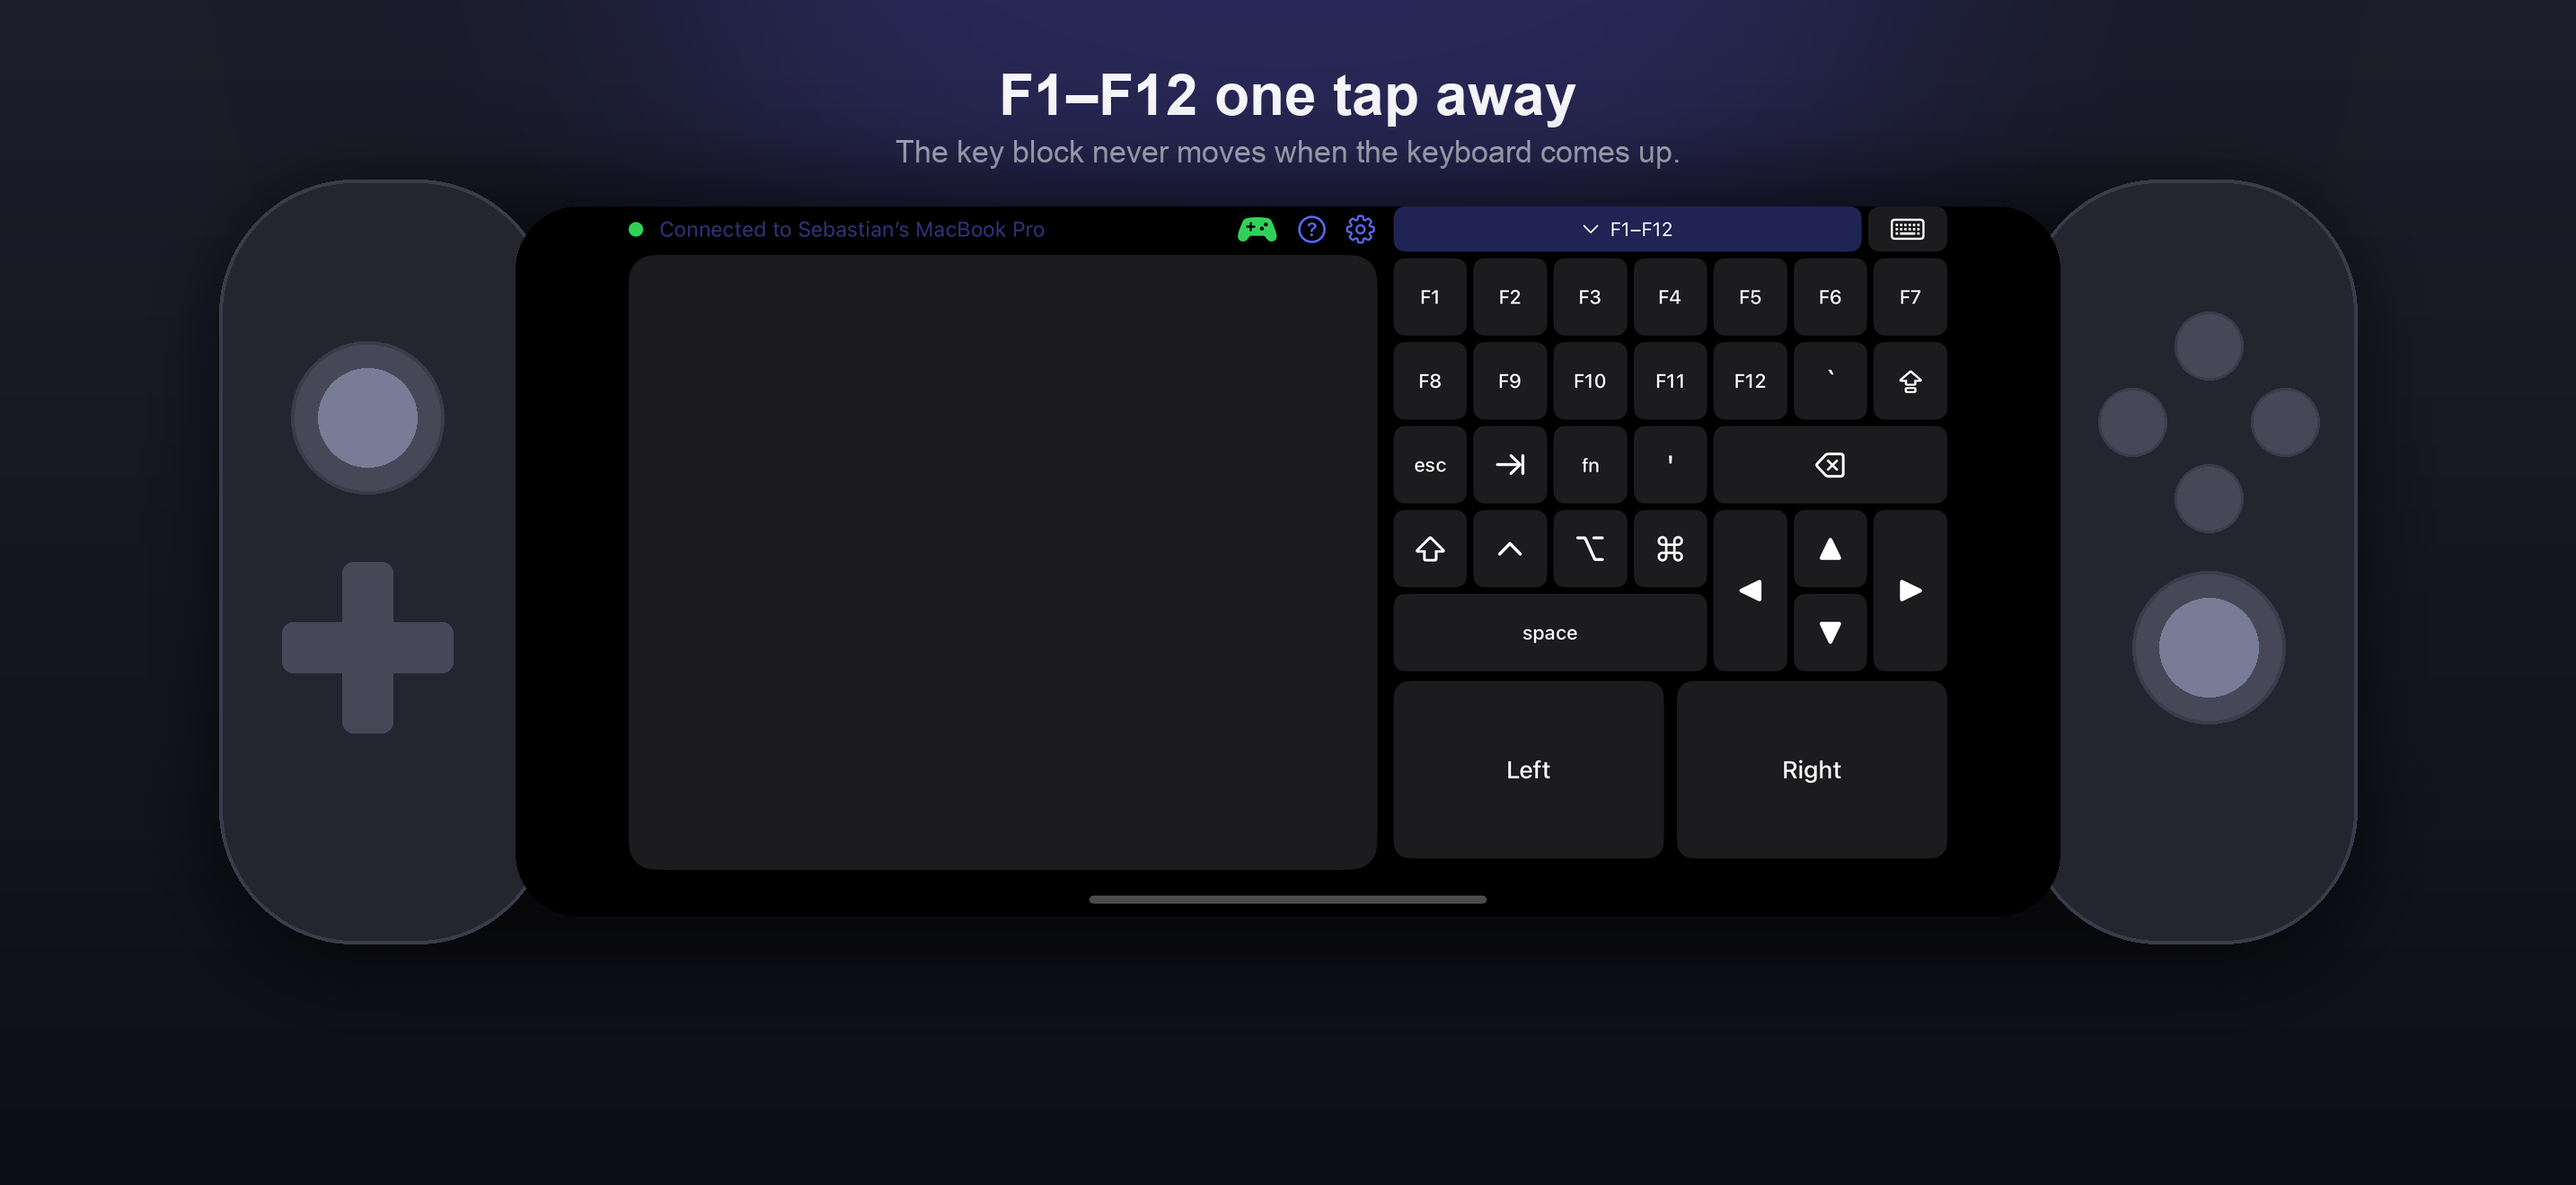
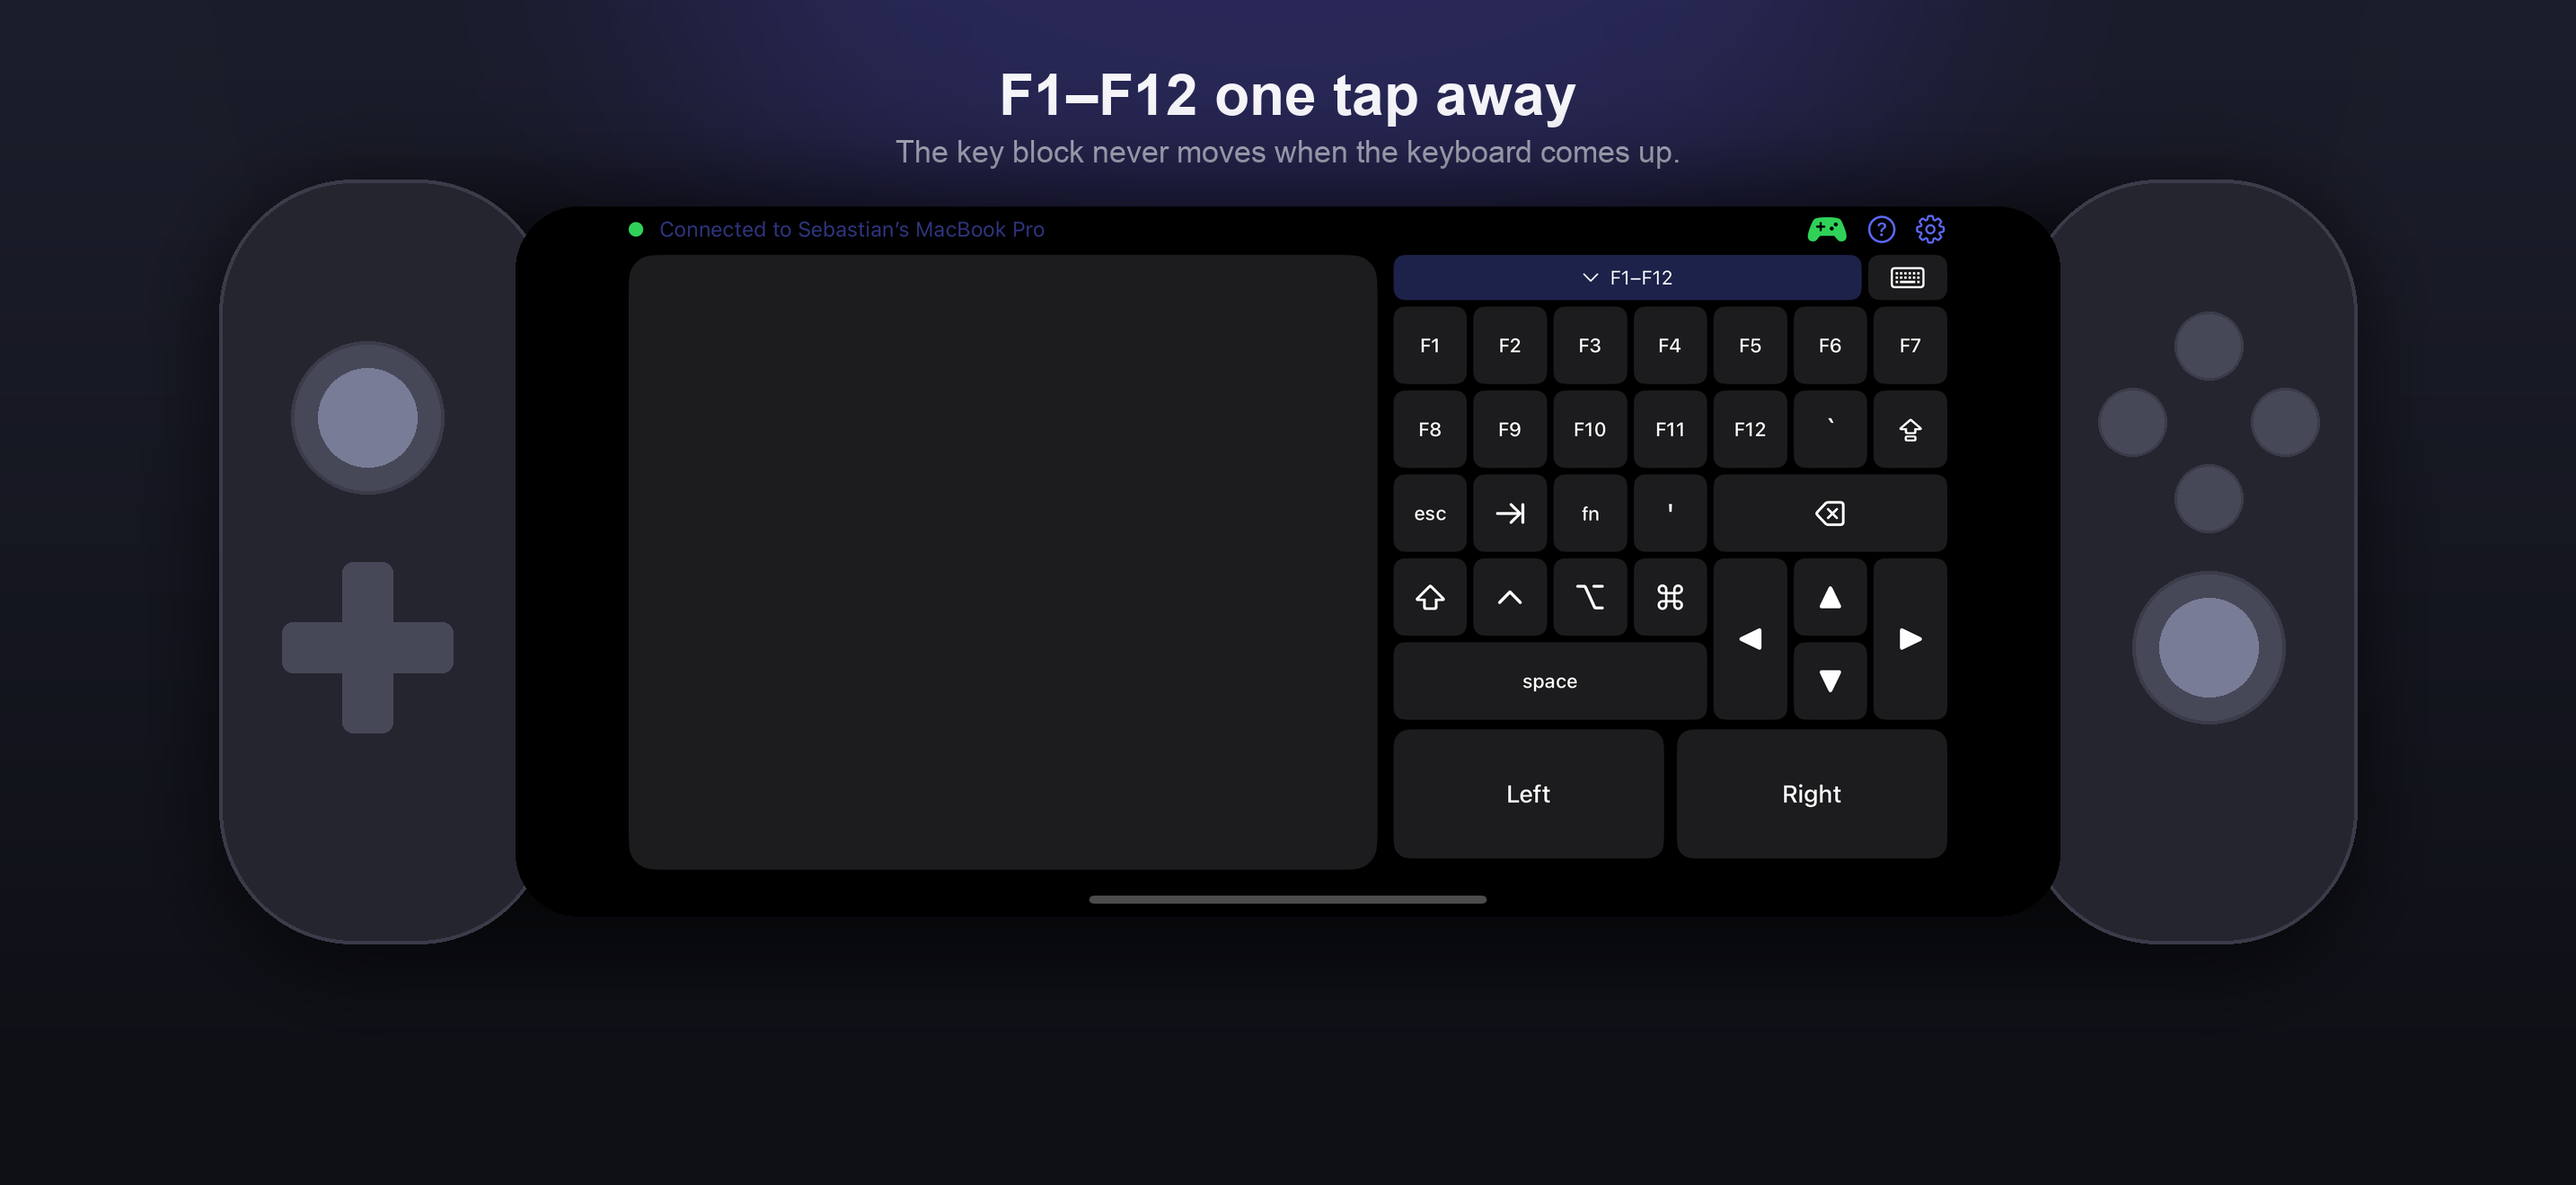
Landscape: status bar spans the width, keyboard state resolved on cold launch
The F-bar now lines up with the top of the trackpad because the status
row sits above both. The keyboard-hidden-sideways rule uses
onChange(initial:) so it also applies when the app launches already
rotated, where onAppear sees no size class yet.

Changed region(s): [[0.4655, 0.1553, 0.7758, 0.6833], [0.5896, 0.6523, 0.6206, 0.6833]]

diff --git a/iOS/Couchpad/ContentView.swift b/iOS/Couchpad/ContentView.swift
@@ -28,7 +28,6 @@ struct ContentView: View {
         .onAppear {
             controller.client = client
             controller.settings = settings
-            inputState.keyboardShown = !isLandscape   // launched sideways: keyboard starts hidden
             client.startBrowsing()
             UIApplication.shared.isIdleTimerDisabled = true
             if !hasSeenSetup {
@@ -49,8 +48,9 @@ struct ContentView: View {
         .onChange(of: showSetup) { _, _ in syncKeyboardSuspension() }
         .onChange(of: showSettings) { _, _ in syncKeyboardSuspension() }
         .onChange(of: showScanner) { _, _ in syncKeyboardSuspension() }
-        .onChange(of: isLandscape) { _, landscape in
+        .onChange(of: isLandscape, initial: true) { _, landscape in
             // Sideways (a Backbone, say) the iOS keyboard would cover half the screen: start hidden.
+            // `initial: true` covers launching already sideways, when onAppear sees no size class yet.
             inputState.keyboardShown = !landscape
         }
         .onChange(of: scenePhase) { _, newPhase in
@@ -78,23 +78,19 @@ struct ContentView: View {
     /// rows stretch to use the column's full height, so with the iOS keyboard hidden the keys
     /// are large.
     private var landscapeBody: some View {
-        GeometryReader { geo in
-            HStack(spacing: 10) {
-                if settings.trackpadOnRight {
-                    landscapeControls(width: max(300, geo.size.width * 0.42))
-                    landscapeTrackpad
-                } else {
-                    landscapeTrackpad
-                    landscapeControls(width: max(300, geo.size.width * 0.42))
-                }
-            }
-        }
-    }
-
-    private var landscapeTrackpad: some View {
         VStack(spacing: 6) {
             topBar
-            trackpad
+            GeometryReader { geo in
+                HStack(spacing: 10) {
+                    if settings.trackpadOnRight {
+                        landscapeControls(width: max(300, geo.size.width * 0.42))
+                        trackpad
+                    } else {
+                        trackpad
+                        landscapeControls(width: max(300, geo.size.width * 0.42))
+                    }
+                }
+            }
         }
     }
 
